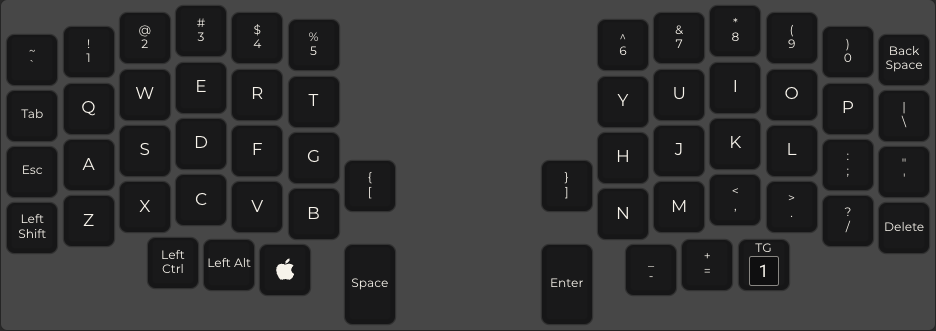
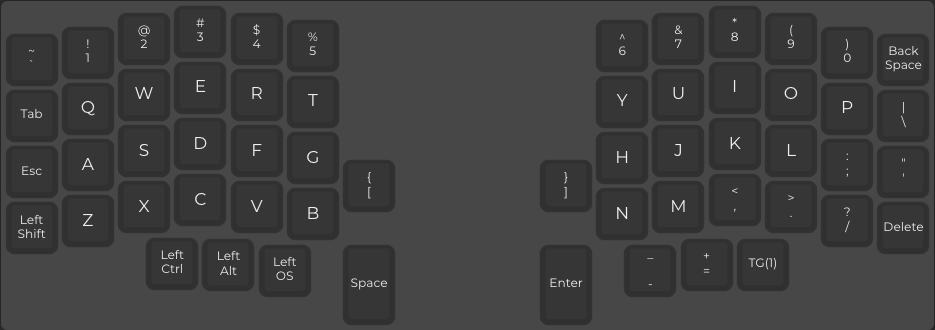
update README

diff --git a/keyboards/lily58/keymaps/minimal-code/keymap.c b/keyboards/lily58/keymaps/minimal-code/keymap.c
@@ -32,7 +32,7 @@ const uint16_t PROGMEM keymaps[][MATRIX_ROWS][MATRIX_COLS] = {
      * |------+------+------+------+------+------|   [   |    |    ]  |------+------+------+------+------+------|
      * |LShift|   Z  |   X  |   C  |   V  |   B  |-------|    |-------|   N  |   M  |   ,  |   .  |   /  |Delete|
      * `-----------------------------------------/       /     \      \-----------------------------------------'
-     *                   | LCtl | LAlt | LGUI | / Space /       \ Enter\  |  -   |  =   | LOWER|
+     *                   | LCtl | LAlt | LGUI | / Space /       \ Enter\  |  -   |  =   |TG(LO)|
      *                   |      |      |      |/       /         \      \ |      |      |      |
      *                   `----------------------------'           '------''--------------------'
      */
@@ -49,7 +49,7 @@ const uint16_t PROGMEM keymaps[][MATRIX_ROWS][MATRIX_COLS] = {
      * |------+------+------+------+------+------|       |    |       |------+------+------+------+------+------|
      * |LShift|      |      |      |      |      |-------|    |-------| Prev | VolDn| VolUp| Next |      |      |
      * `-----------------------------------------/       /     \      \-----------------------------------------'
-     *                   | LCtl | LAlt | LGUI | / Mute  /       \ Play \  | BriDn| BriUp| BASE |
+     *                   | LCtl | LAlt | LGUI | / Mute  /       \ Play \  | BriDn| BriUp|TG(LO)|
      *                   |      |      |      |/       /         \      \ |      |      |      |
      *                   `----------------------------'           '------''--------------------'
      */
